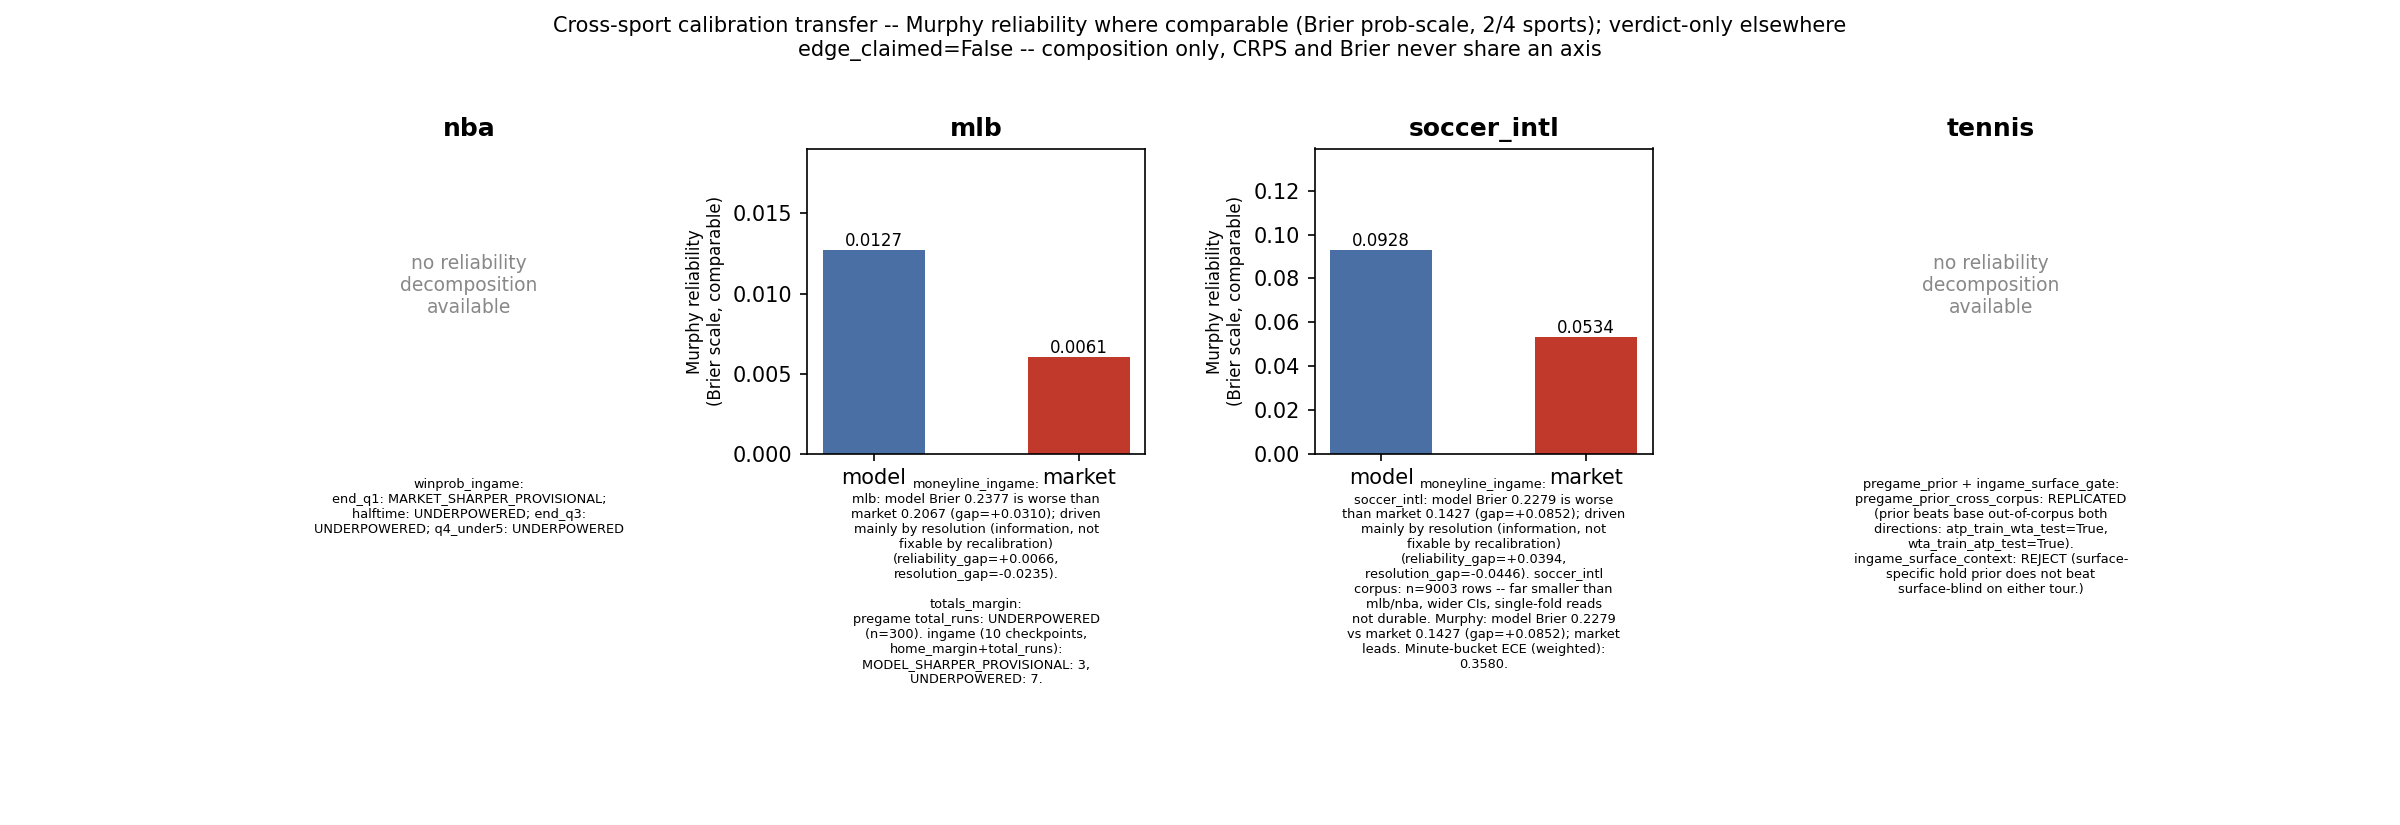
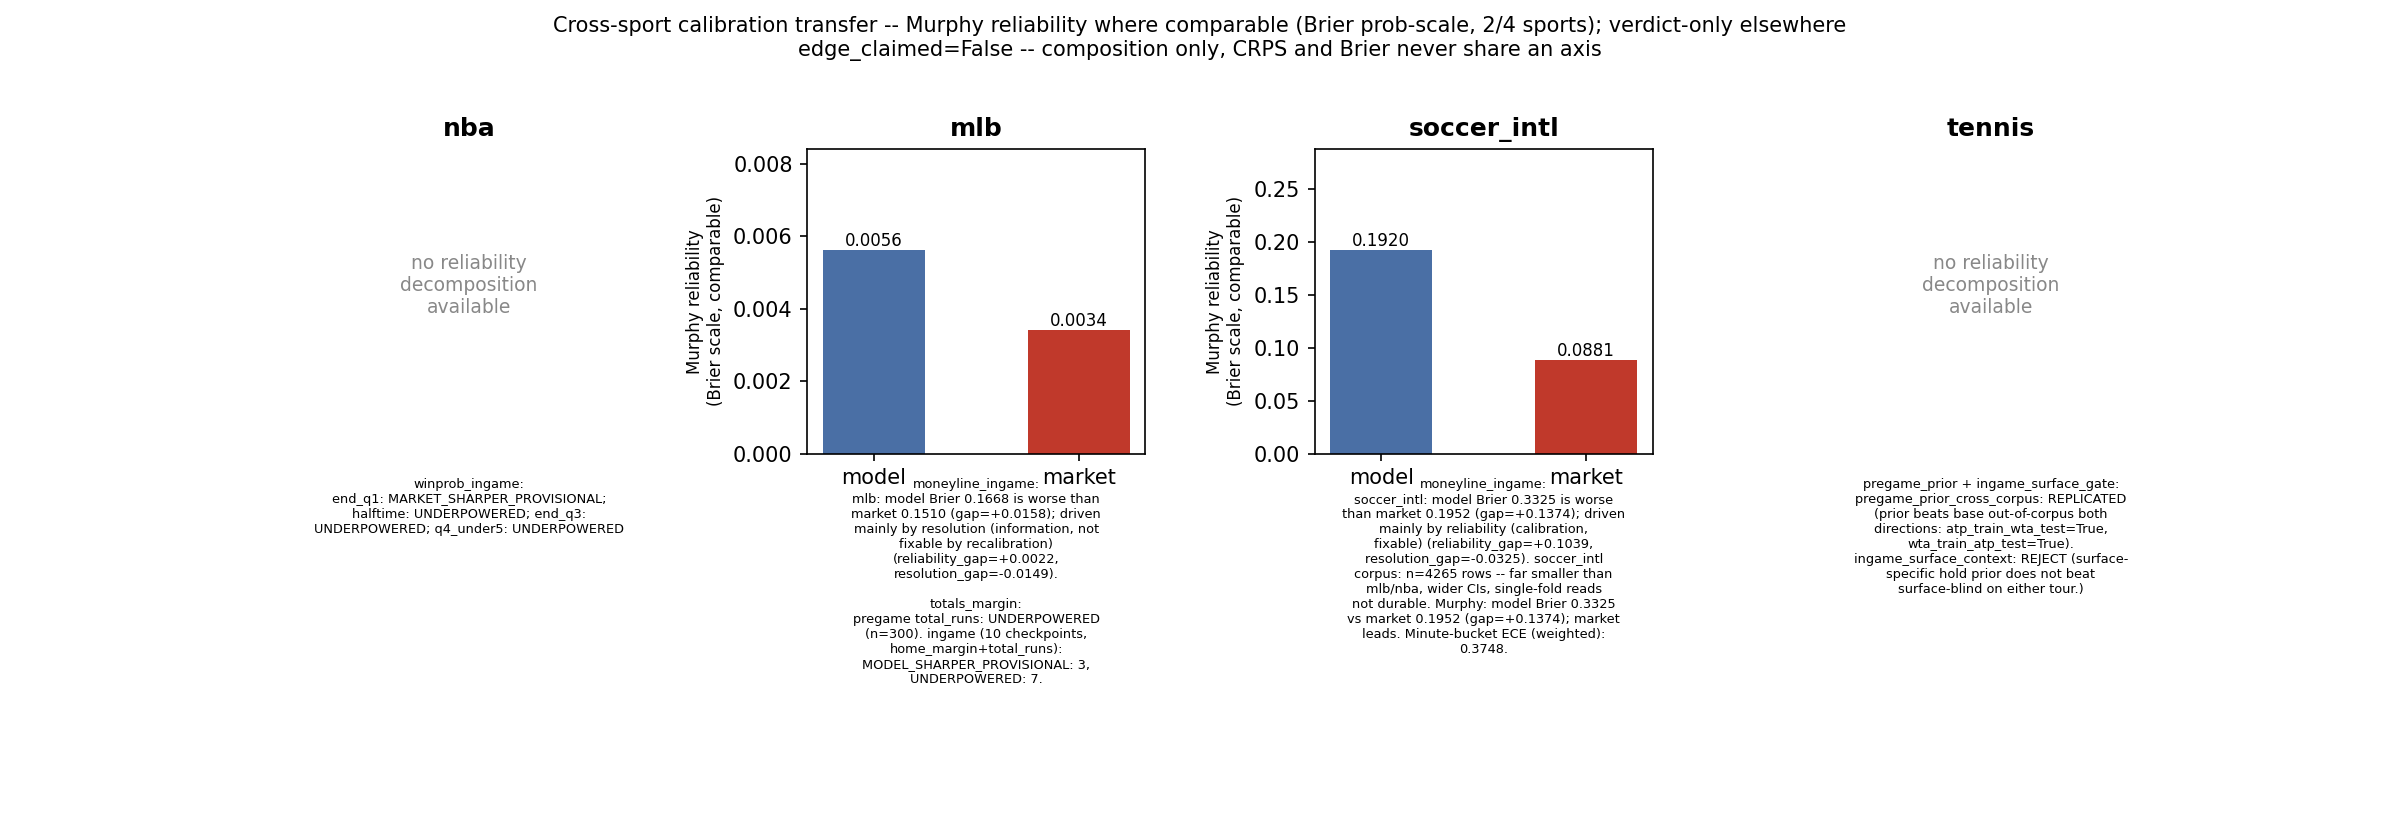
analytics: kernel_transfer is rebuilt from the revision-2 Murphy decomposition (mlb reliability gap 0.00664 -> 0.002194 on 27,351 rows; soccer 0.039414 -> 0.103894 on 4,265), the market foresight premium goes under review because its inputs now mix the rebuilt info-arrival curve with the unrebuilt c

diff --git a/scripts/platformkit/analytics_showcase/mechanism_ledger_export.py b/scripts/platformkit/analytics_showcase/mechanism_ledger_export.py
@@ -173,13 +173,25 @@ def main():
     result = build()
     os.makedirs(os.path.dirname(OUT_JSON), exist_ok=True)
     with open(OUT_JSON, "w", encoding="utf-8") as f:
-        json.dump(result, f, indent=2)
+        # NaN is not JSON; strict parsers (the paper evidence checker) reject it.
+        json.dump(_nan_to_null(result), f, indent=2, allow_nan=False)
     render_png(result, OUT_PNG)
     print("wrote", OUT_JSON)
     print("wrote", OUT_PNG)
     print("overall_counts:", result["overall_counts"])
     for s, v in result["by_sport"].items():
         print(f"  {s}:", v["counts"])
+
+
+def _nan_to_null(obj):
+    """Replace float NaN/inf with None recursively so the artifact is strict JSON."""
+    if isinstance(obj, float) and (obj != obj or obj in (float("inf"), float("-inf"))):
+        return None
+    if isinstance(obj, dict):
+        return {k: _nan_to_null(v) for k, v in obj.items()}
+    if isinstance(obj, list):
+        return [_nan_to_null(v) for v in obj]
+    return obj
 
 
 if __name__ == "__main__":
